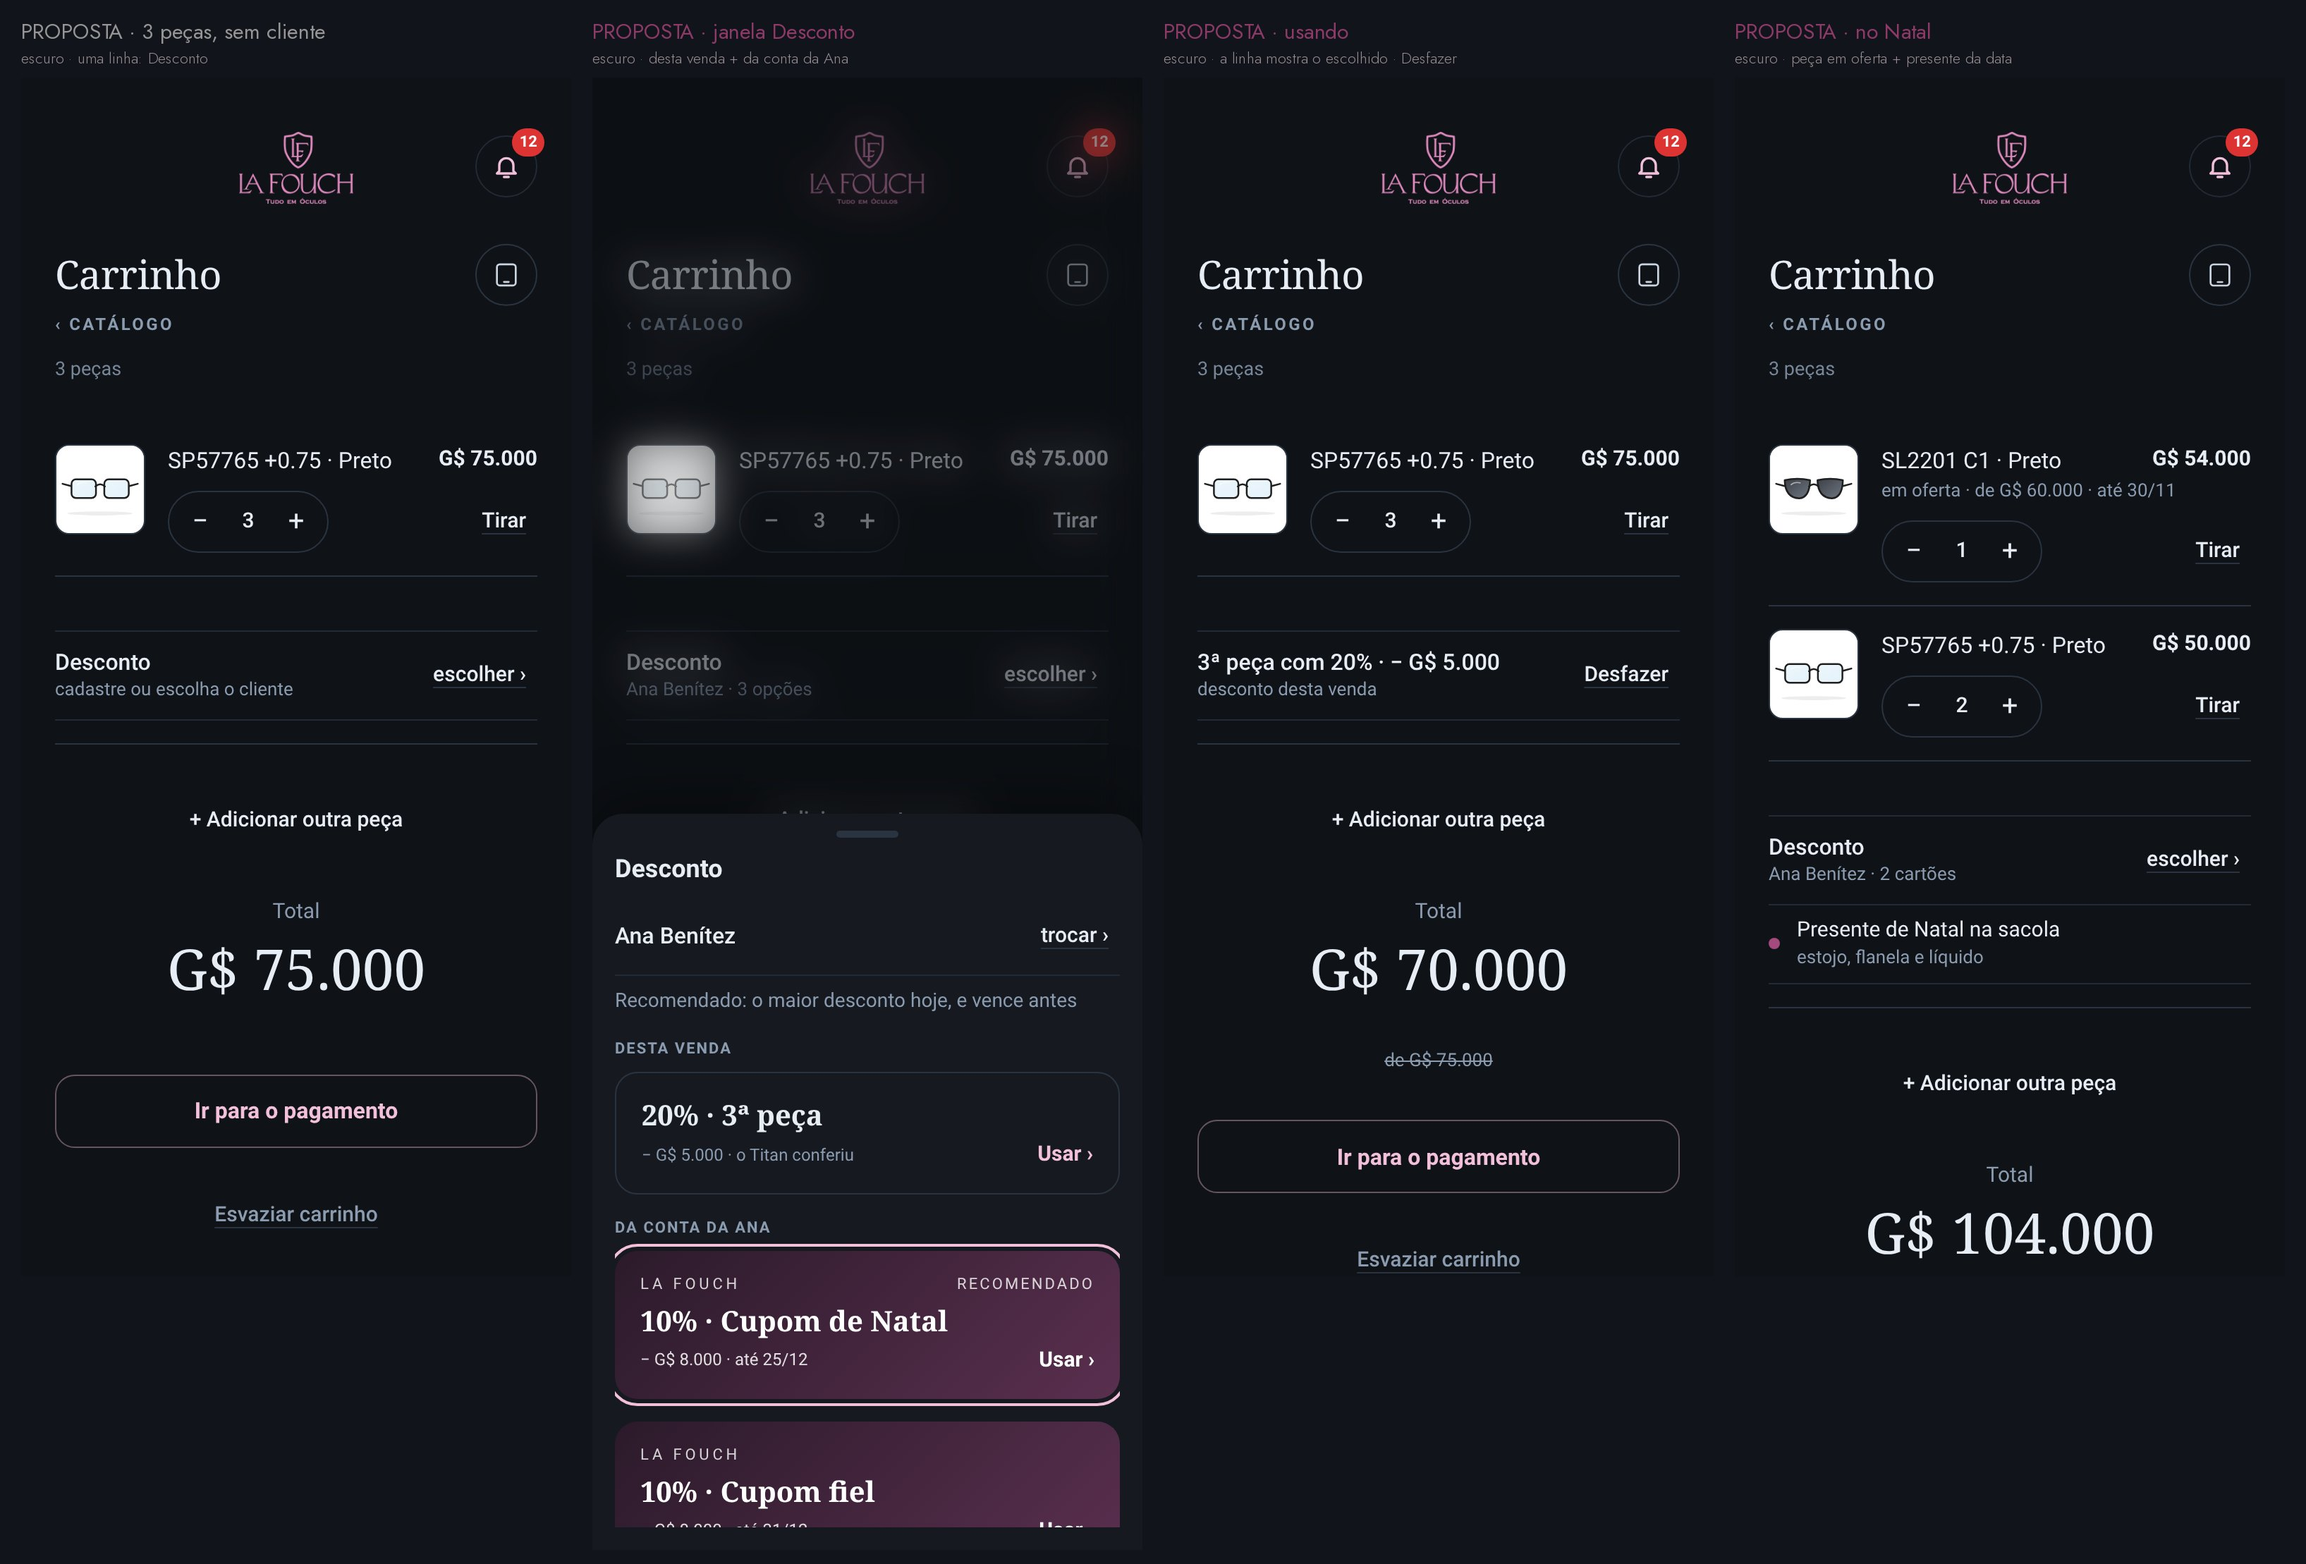
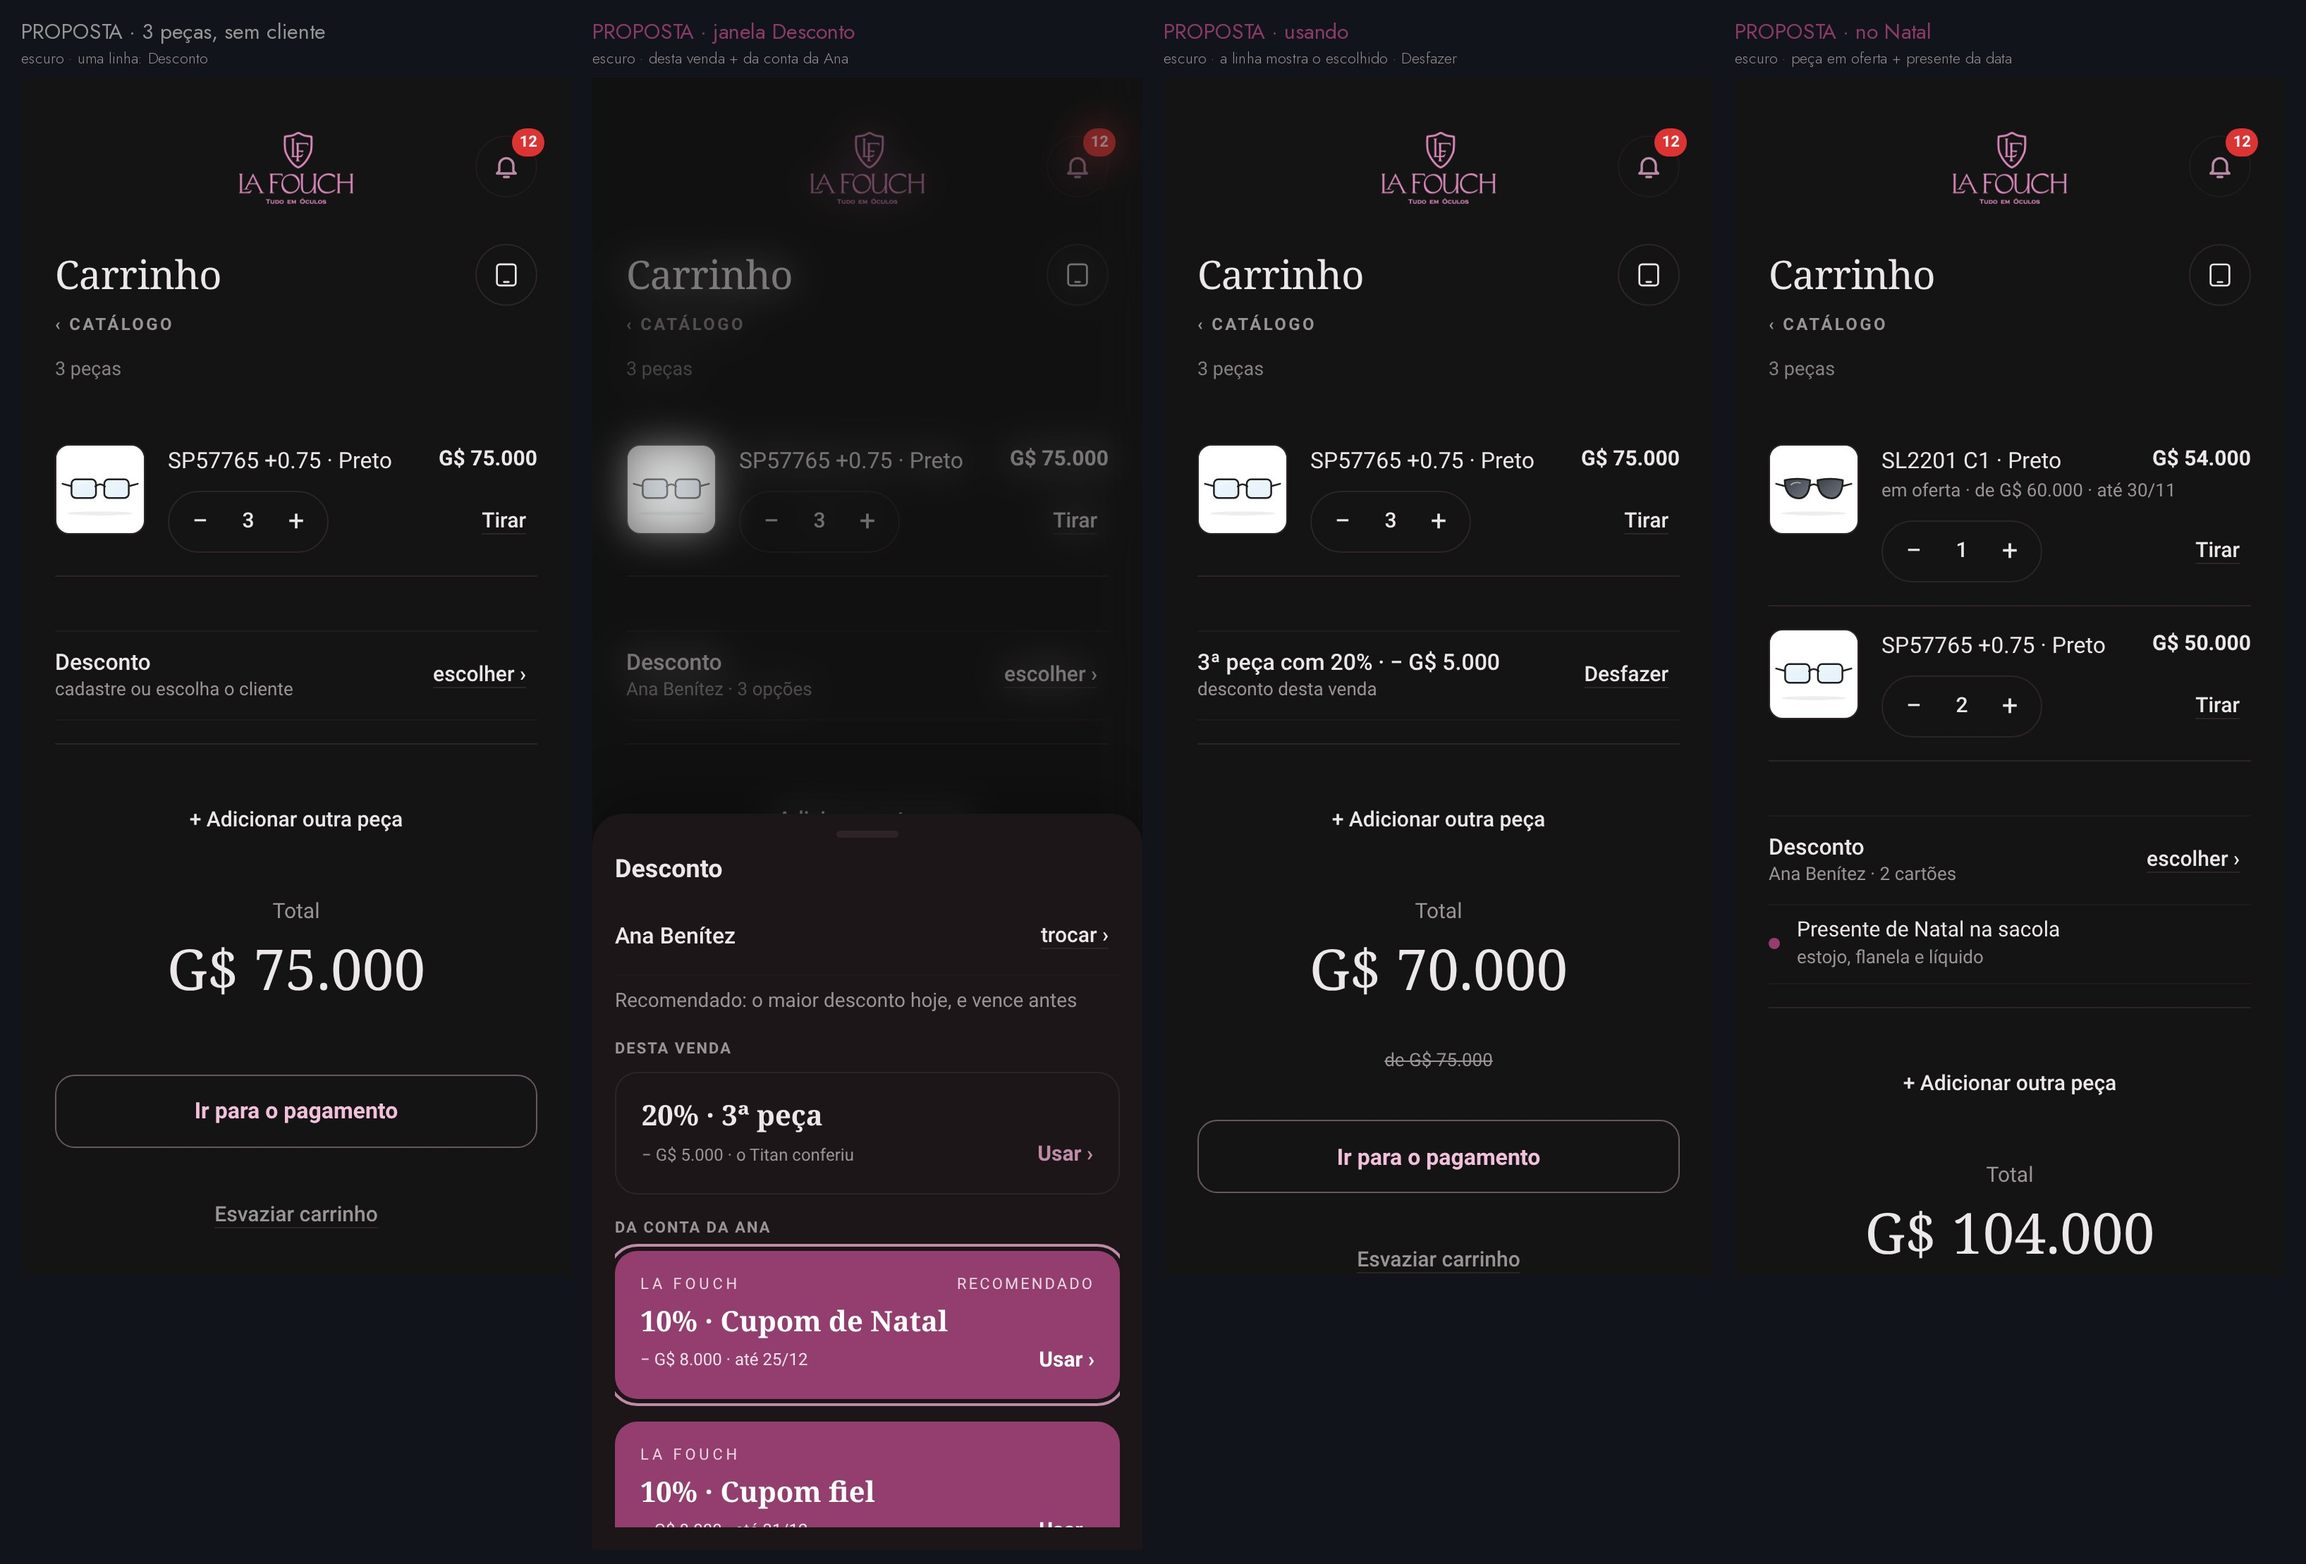
Cores: tema escuro aprovado em aprovados.py
Claude-Session: https://claude.ai/code/session_01Vj5GPRt4UBskC3w8v52h7G

Changed region(s): [[0.2495, 0.7777, 0.4991, 0.9955]]

diff --git a/work/s435/varredura/aprovados.py b/work/s435/varredura/aprovados.py
@@ -19,10 +19,16 @@ SEMEMOJI=r"""()=>{const re=/[\u{1F300}-\u{1FAFF}\u{2600}-\u{27BF}\u{1F000}-\u{1F
 
 # CORES PADRONIZADAS (IDEIAS 10, dono aprovou 23/11 10:52; bolinha 11:06): tudo sai da cor oficial #943d6f (CMYK C47 M91 Y29 K8).
 # Por enquanto SÓ o tema CLARO (a família não define o escuro — perguntar). Saem #a2447c, #8a2f66, os degradês (cupCard) e o vinho solto.
-_CL=('--accent:#943d6f;--bar:#943d6f;--accent-fg:#943d6f;--accent-soft:#f6eff3;--fg:#141414;--mute:#6b6763;--line2:#ece7e9;'
+_CL=('--bg:#f4f1f4;--panel:#ffffff;--panel2:#f0ebf0;--line:#d9d0d8;--sub:#475569;--accent:#943d6f;--bar:#943d6f;--accent-fg:#943d6f;--accent-soft:#f6eff3;--fg:#141414;--mute:#6b6763;--line2:#ece7e9;'
      '--ok:#1f8f4e;--bad:#b3261e;--warn:#b7791f;--ptw:#e0ac00')
-CORES=('html[data-tema="claro"]{'+_CL+'}@media (prefers-color-scheme:light){html:not([data-tema="escuro"]){'+_CL+'}}'
-       'html[data-tema="claro"] .cupCard{background:#943d6f!important}')
+# ESCURO (dono 23/11 11:10 'Sim' à recomendação): botão = marca #943d6f com letra branca (6,6); texto/link da marca = marca + 40% branco
+# #bf8ba9 (6,6); fundo #141414; painel #1c1619; painel 2 #241c20; linha #23191f; texto #ece7e9; suave #9b9496; avisos com branco:
+# certo #6db68c, perigo #d17d78, atenção #cda162; bolinha #e0ac00.
+_ES=('--bg:#141414;--panel:#1c1619;--panel2:#241c20;--line:#2e2428;--line2:#23191f;--fg:#ece7e9;--mute:#9b9496;--sub:#ece7e9;'
+     '--accent:#943d6f;--bar:#943d6f;--accent-fg:#bf8ba9;--accent-soft:#2a1a22;--ok:#6db68c;--bad:#d17d78;--warn:#cda162;--ptw:#e0ac00')
+CORES=('html:not([data-tema="claro"]){'+_ES+'}html[data-tema="claro"]{'+_CL+'}'
+       '@media (prefers-color-scheme:light){html:not([data-tema="escuro"]){'+_CL+'}}.cupCard{background:#943d6f!important}')
+
 
 def aplica(pg):
   pg.add_style_tag(content=LINHA);pg.add_style_tag(content=PTW);pg.add_style_tag(content=CORES)

diff --git a/docs/MEMORIA-PROJETO.md b/docs/MEMORIA-PROJETO.md
@@ -3750,3 +3750,5 @@ Testar TUDO, com muita calma, antes de dizer que está pronto ou de publicar: ca
 - 23/11 11:10 · ESBOCO: recados IDEIAS (cores padronizadas pela oficial #943d6f, APROVADAS 10:52, Fila 87): usar só essa família em trabalho novo (neutras #141414/#6b6763/#ece7e9/#fff; certo #1f8f4e, perigo #b3261e, atenção #b7791f; rosé 8%/14%, fio 35%). COMO-FAZER ainda não no main → pedido à IDEIAS; entra em aprovados.py quando chegar. CONFLITO: 89a --ptw claro #e0ac00 × atenção #b7791f — perguntar ao dono.
 
 - 23/11 11:15 · DONO (via IDEIAS 11:06): bolinha de atenção = #e0ac00 (89a fica); #b7791f só para TEXTO de atenção. COMO-FAZER das cores no main (work/ideias/10-cores/). aprovados.py ganhou CORES (só tema CLARO: accent/bar/accent-fg #943d6f, rosé #f6eff3, texto #141414, suave #6b6763, linha #ece7e9, certo #1f8f4e, perigo #b3261e, atenção #b7791f, bolinha #e0ac00; cupCard sem degradê = #943d6f). GAP: a família não define o tema ESCURO do app (#943d6f sobre fundo escuro tem pouco contraste) — levar ao dono/IDEIAS. Dono: 'vamos verificar com calma até padronizar tudo'.
+
+- 23/11 11:10 · DONO: 'Sim' → APROVADA a família no TEMA ESCURO (recomendação ESBOCO): botão = marca #943d6f com letra branca (6,6); texto/link da marca = marca + 40% branco #bf8ba9 (6,6); fundo #141414; painel #1c1619; painel 2 #241c20; linha #23191f; texto #ece7e9; suave #9b9496; certo #6db68c; perigo #d17d78; atenção #cda162; bolinha #e0ac00 nos dois temas. Em aprovados.py (CORES). No CLARO os fundos do app ficam como hoje (#f4f1f4/#fff/#f0ebf0, linha #d9d0d8) até a conferência. ACHADO para a conferência: a família diz 'botão principal acetinado (cetim)' e o 81 aprovado tem o principal em contorno (.go) — decidir.
